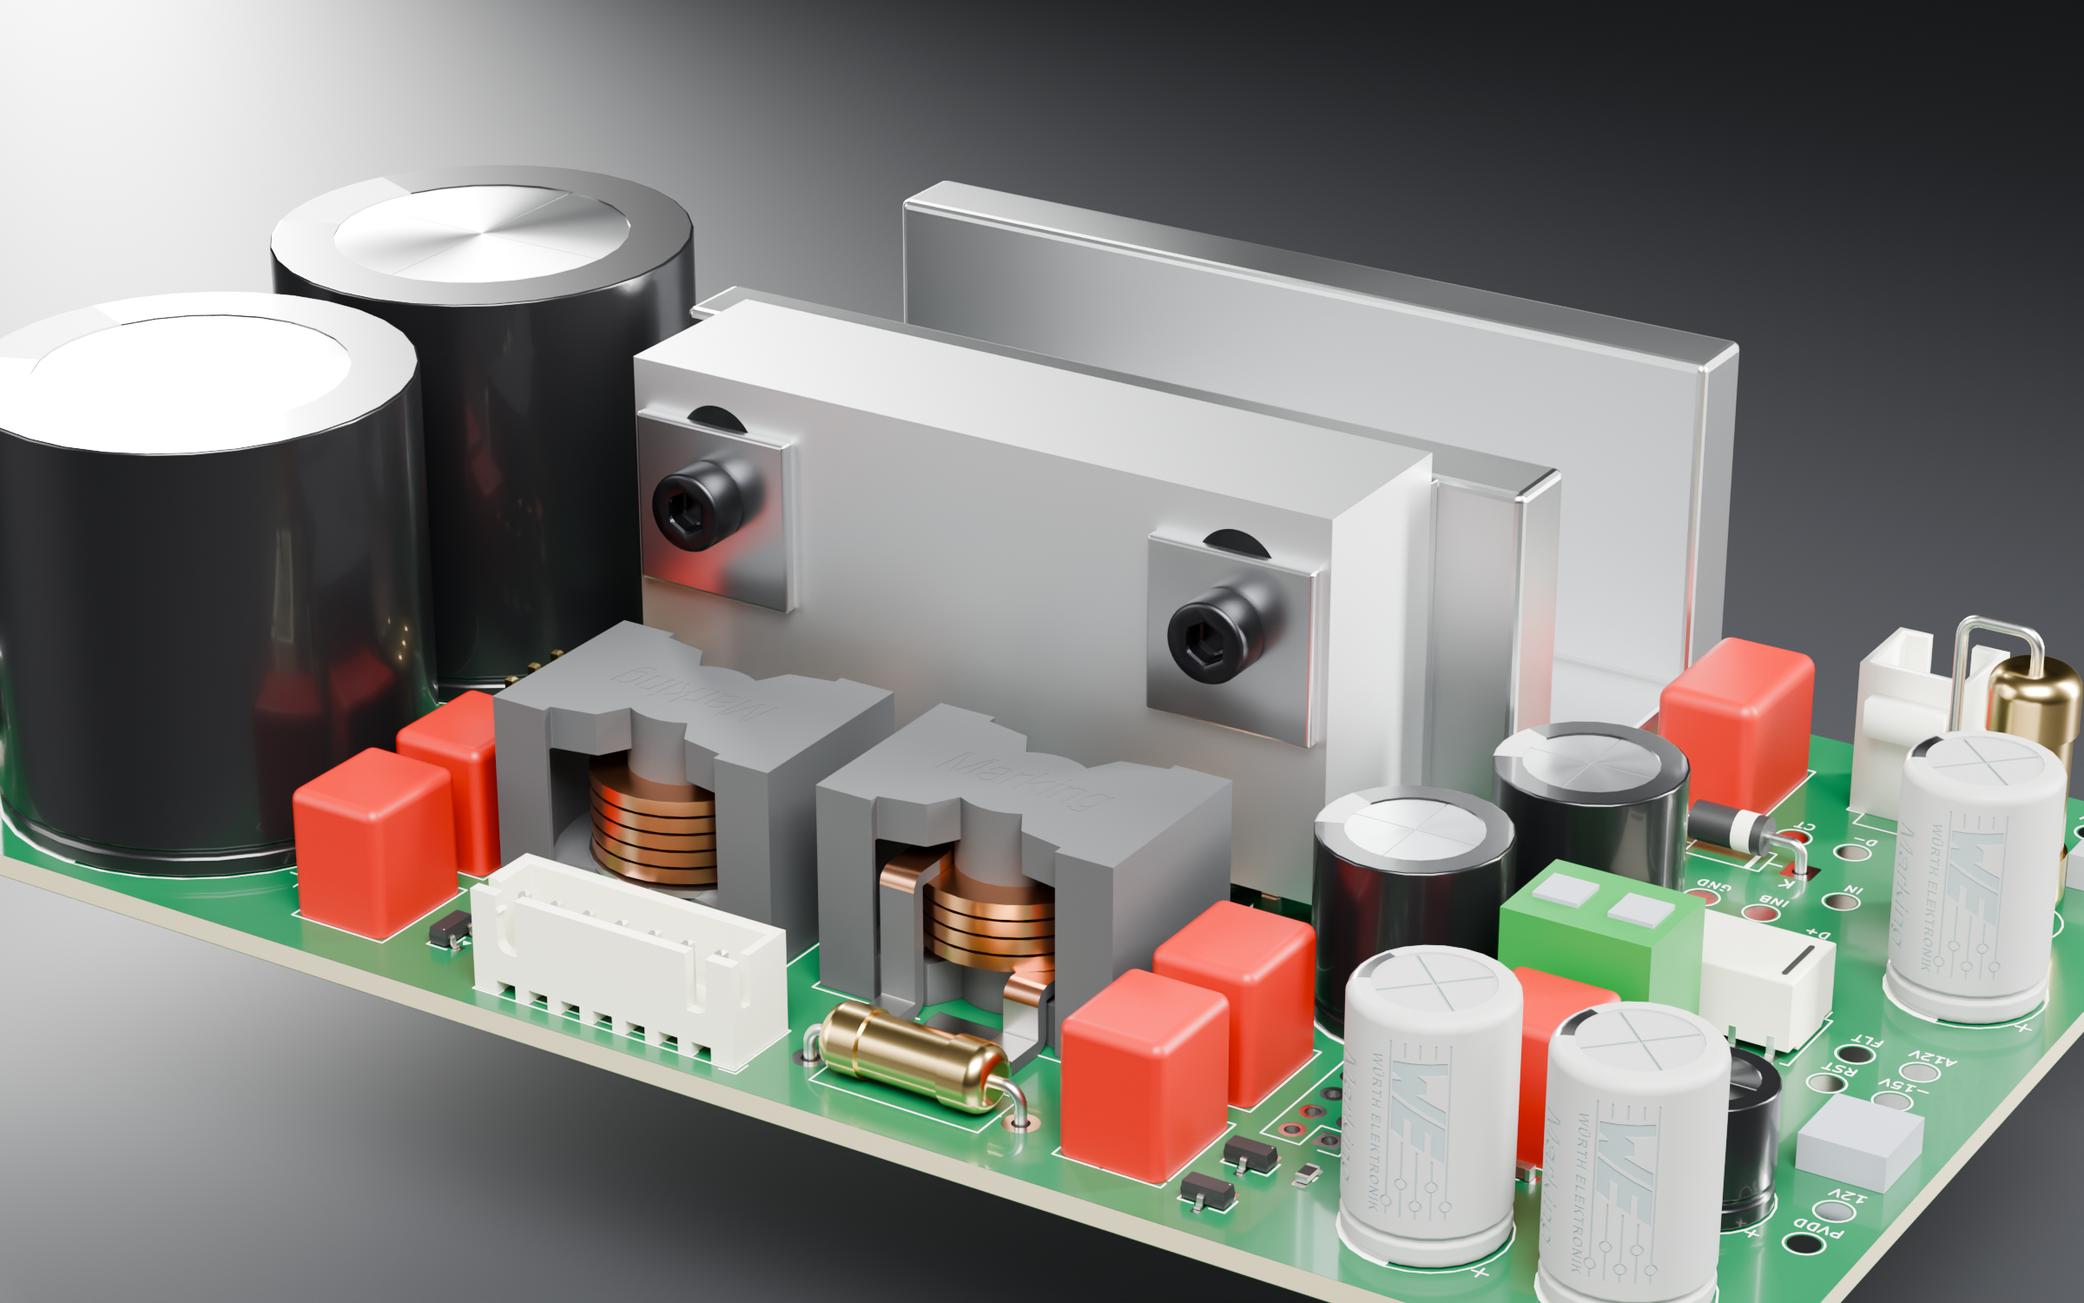
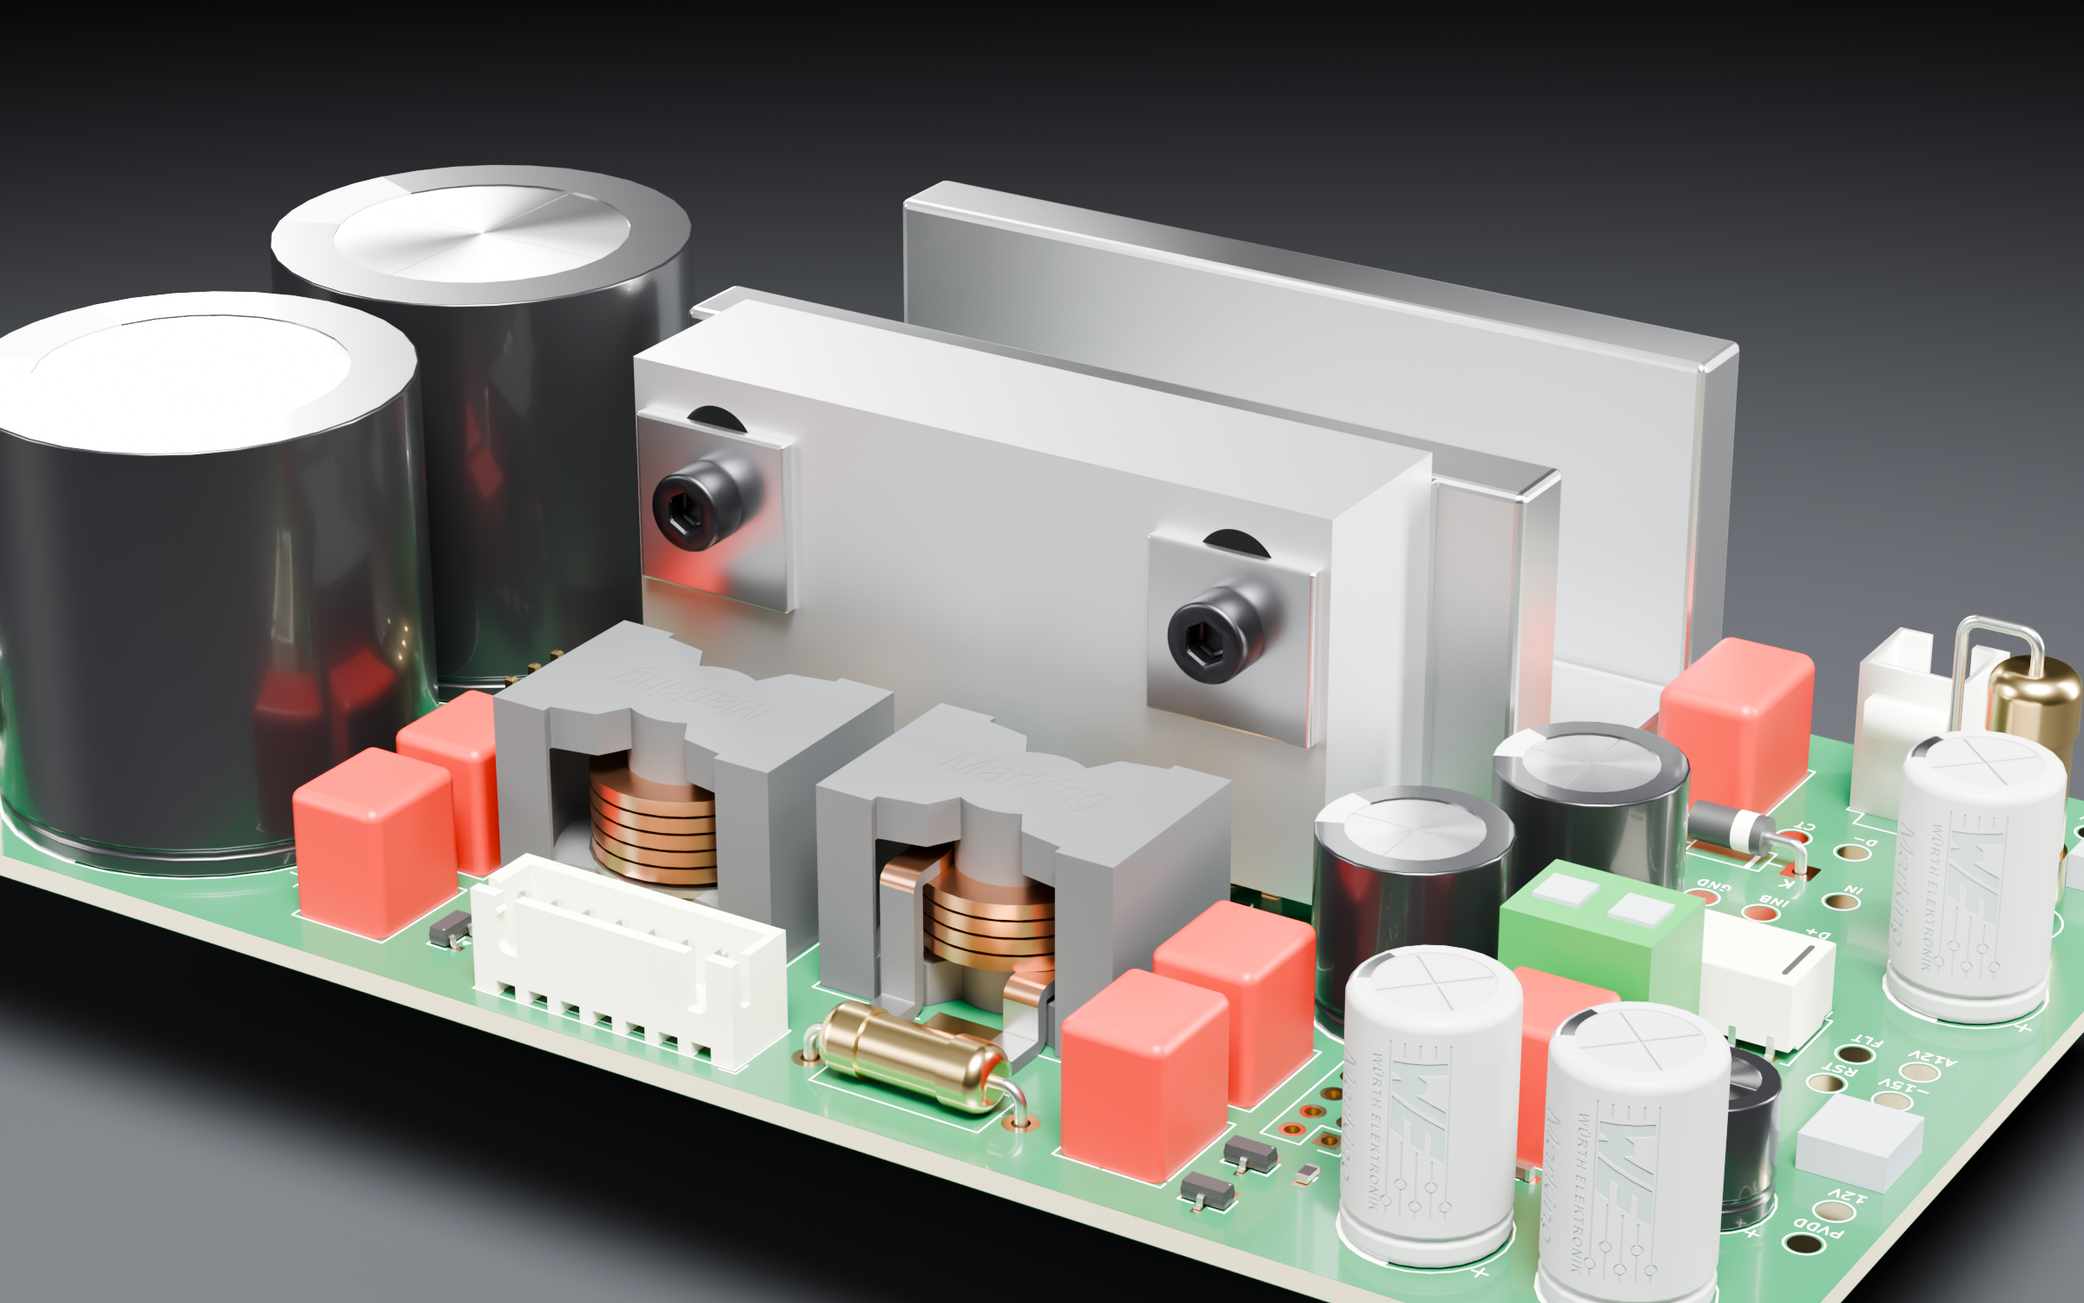
fix: resolve reorganization follow-ups
- thermal block WRL fixed at source (ccw FALSE, aluminium material); KiCad
  gallery renders the model directly; thermal-fit report regenerated
- D-039 fab spec: 4 layers 1.6 mm, ENIG, green mask
- D-040 Rev.B1 amendment (no-bench verification) approved by owner delegation
- Blender: light linking removes backdrop hotspot, ENIG pads, top-view exposure,
  PS28_STUDIO_VIEWS subset rendering
- version Headroom memory block in AGENTS.md

diff --git a/scripts/blender_pcb_studio.py b/scripts/blender_pcb_studio.py
@@ -5,7 +5,7 @@ Board/component geometry comes only from the GLB. The OEM U profile, side shim,
 load spreaders and M3 screws are added from mechanical/thermal-fit.json and the
 same nominal profile used by scripts/blender_thermal_block.py (not an owner scan).
 Materials follow datasheets where known (Nichicon UHE: white print on black sleeve).
-Set PS28_STUDIO_PREVIEW=1 for a fast low-sample check.
+Set PS28_STUDIO_PREVIEW=1 for a fast low-sample check, PS28_STUDIO_VIEWS=top,... for a subset.
 """
 import contextlib
 import hashlib
@@ -63,7 +63,7 @@ def library():
     return {
         "mask": mat("Solder mask green", (.008, .12, .045), rough=.3, coat=.55),
         "silk": mat("Silkscreen", (.93, .93, .9), rough=.7),
-        "hasl": mat("HASL tin", (.86, .86, .84), metal=1, rough=.2),
+        "enig": mat("ENIG gold", (1.0, .77, .42), metal=1, rough=.18),
         "fr4": mat("FR4 edge", (.5, .45, .28), rough=.65),
         "blasted": mat("Al 6061 bead blasted", (.83, .84, .85), metal=1, rough=.42, bump=.25),
         "extrusion": mat("Al extrusion mill finish", (.78, .79, .8), metal=1, rough=.3, aniso=.6, bump=.12),
@@ -84,7 +84,7 @@ def library():
 
 def classify(lib, obj):
     name = obj.data.name
-    for key, role in (("soldermask", "mask"), ("silkscreen", "silk"), ("_pad", "hasl"),
+    for key, role in (("soldermask", "mask"), ("silkscreen", "silk"), ("_pad", "enig"),
                       ("_PCB", "fr4"), ("thermal_block", "blasted")):
         if key in name:
             obj.data.materials.clear()
@@ -314,7 +314,7 @@ def studio(scene, k):
         p.use_smooth = True
     cyc.modifiers.clear()
     lights = [
-        ("Key softbox", (-.16, .2, .34), 1.7, (.34, .22)),
+        ("Key softbox", (-.1, .14, .36), 2.2, (.34, .22)),
         ("Fill softbox", (.3, .26, .14), .3, (.3, .3)),
         ("Rim strip left", (-.26, -.18, .1), 1.0, (.04, .4)),
         ("Rim strip right", (.28, -.22, .12), .85, (.04, .4)),
@@ -324,7 +324,8 @@ def studio(scene, k):
         data = bpy.data.lights.new(name, "AREA")
         data.shape, data.energy = "RECTANGLE", power
         data.size, data.size_y = size
-        data.spread = math.radians(75)
+        # Narrow softbox beams stop spill onto the back wall (hotspot behind the board).
+        data.spread = math.radians(38 if "softbox" in name else 75)
         obj = bpy.data.objects.new(name, data)
         scene.collection.objects.link(obj)
         obj.location = centre + Vector(off)
@@ -335,6 +336,12 @@ def studio(scene, k):
     scene.camera = cam
     cam_data.lens, cam_data.clip_start, cam_data.clip_end = 85, .005, 20
     cam_data.sensor_width = 36
+    # Rim strips only sculpt product edges; light linking keeps them off the sweep (no hotspot).
+    sweep_only = bpy.data.collections.new("Sweep excluded from rims")
+    sweep_only.objects.link(cyc)
+    sweep_only.collection_objects[0].light_linking.link_state = "EXCLUDE"
+    for name in ("Rim strip left", "Rim strip right"):
+        scene.objects[name].light_linking.receiver_collection = sweep_only
     under = scene.objects["Underside softbox"]
     return cyc, under, centre
 
@@ -369,17 +376,24 @@ def render():
         "detail": (k(90, 62, 14), (-.1, .16, .085), .72, detail, True),
         "bottom": (k(97, 60.5, 0), (.12, .22, -.3), .86, None, False),
     }
+    only = os.environ.get("PS28_STUDIO_VIEWS", "").split(",")  # e.g. "top" re-renders one view
     for name, (target, offset, margin, fit, floor) in views.items():
+        if only != [""] and name not in only:
+            continue
         cyc.hide_render, under.hide_render = not floor, floor
+        scene.view_settings.exposure = -.8 if name == "top" else 0  # key light sits right above
         frame(scene, target, offset, margin, fit)
         scene.render.filepath = str(staging / f"{name}.png")
         bpy.ops.render.render(write_still=True)
     cyc.hide_render, under.hide_render = False, True
+    scene.view_settings.exposure = 0
     frame(scene, views["isometric"][0], views["isometric"][1], views["isometric"][2])
     bpy.ops.wm.save_as_mainfile(filepath=str(OUT / "ps28-studio.blend"))
     if PREVIEW:
         return
     for name in views:
+        if only != [""] and name not in only:
+            continue
         shutil.copy2(staging / f"{name}.png", MEDIA / f"{name}.png")
     sources = [GLB, Path(__file__), ROOT / "kicad/system-candidate/system-candidate.kicad_pcb",
                ROOT / "mechanical/thermal-fit.json"]
@@ -389,7 +403,7 @@ def render():
                 "limitations": ["Board and components from the KiCad GLB (catalog/proxy models)",
                                 "OEM U profile, shim, spreaders and M3 heads are nominal geometry "
                                 "from mechanical/thermal-fit.json, not an owner scan",
-                                "Solder mask colour is the fab default (green); not a sign-off"],
+                                "Green mask and ENIG pads per D-039 fab spec; not a sign-off"],
                 "source_sha256": {str(p.relative_to(ROOT)): hashlib.sha256(p.read_bytes()).hexdigest() for p in sources},
                 "image_sha256": {f"{n}.png": hashlib.sha256((MEDIA / f"{n}.png").read_bytes()).hexdigest() for n in views}}
     (MEDIA / "manifest.json").write_text(json.dumps(manifest, indent=2) + "\n")

diff --git a/scripts/render_kicad_gallery.py b/scripts/render_kicad_gallery.py
@@ -3,10 +3,6 @@
 
 kicad-cli renders the board on a transparent background; Pillow only composites it
 on the graphite studio backdrop used by the Blender renders and encodes the GIF.
-The thermal block WRL is written with inverted face winding (renders black in
-KiCad), so rendering uses a temporary board copy whose block model adds `ccw FALSE`.
-shortcut: the source WRL keeps its hash for the thermal reports; fix the exporter
-in scripts/blender_thermal_block.py when those reports are regenerated.
 """
 
 import argparse
@@ -15,7 +11,6 @@ import json
 import re
 import shutil
 import subprocess
-import tempfile
 from pathlib import Path
 
 ROOT = Path(__file__).resolve().parents[1]
@@ -40,18 +35,6 @@ def missing_models(board):
         if not resolved or not all(Path(m).is_file() for m in resolved):
             missing.append(ref)
     return sorted(missing)
-
-
-def staged_board(tmp):
-    """Copy the board and models; fix the block winding only in the copy."""
-    shutil.copytree(BOARD.parent, tmp / "board", ignore=shutil.ignore_patterns("*-backups", "*.lck"))
-    shutil.copytree(ROOT / "kicad/models", tmp / "models")
-    wrl = tmp / "models/ps28-bodies/thermal_block.wrl"
-    wrl.write_text(wrl.read_text().replace(
-        "material Material { diffuseColor .68 .71 .74 }",
-        "material Material { diffuseColor .74 .76 .78 specularColor .45 .45 .45 shininess .3 }").replace(
-        "geometry IndexedFaceSet {", "geometry IndexedFaceSet { ccw FALSE creaseAngle .5", 1))
-    return tmp / "board" / BOARD.name
 
 
 def native(board, path, side, rotation, perspective, size, quality):
@@ -88,19 +71,17 @@ def render(frames, output):
     build = ROOT / "build/renders/native"
     build.mkdir(parents=True, exist_ok=True)
     commands = []
-    with tempfile.TemporaryDirectory(prefix="ps28-kicad-") as tmp:
-        board = staged_board(Path(tmp))
-        for name, (side, rotation, perspective) in VIEWS.items():
-            raw = build / f"{name}.png"
-            commands.append(native(board, raw, side, rotation, perspective, STILL, "high"))
-            backdrop(Image.open(raw).convert("RGBA")).save(output / f"system-{name}.png", optimize=True)
-        orbit = []
-        for i in range(frames):
-            raw = build / f"orbit-{i:02d}.png"
-            commands.append(native(board, raw, "top", f"-38,0,{i * 360 / frames:g}", True, ORBIT, "basic"))
-            orbit.append(backdrop(Image.open(raw).convert("RGBA")).quantize(colors=255))
-        orbit[0].save(output / "system-orbit.gif", save_all=True, append_images=orbit[1:],
-                      duration=180, loop=0, optimize=True)
+    for name, (side, rotation, perspective) in VIEWS.items():
+        raw = build / f"{name}.png"
+        commands.append(native(BOARD, raw, side, rotation, perspective, STILL, "high"))
+        backdrop(Image.open(raw).convert("RGBA")).save(output / f"system-{name}.png", optimize=True)
+    orbit = []
+    for i in range(frames):
+        raw = build / f"orbit-{i:02d}.png"
+        commands.append(native(BOARD, raw, "top", f"-38,0,{i * 360 / frames:g}", True, ORBIT, "basic"))
+        orbit.append(backdrop(Image.open(raw).convert("RGBA")).quantize(colors=255))
+    orbit[0].save(output / "system-orbit.gif", save_all=True, append_images=orbit[1:],
+                  duration=180, loop=0, optimize=True)
     assets = [f"system-{v}.png" for v in VIEWS] + ["system-orbit.gif"]
     manifest = {
         "renderer": subprocess.check_output(["kicad-cli", "--version"], text=True).strip(),

diff --git a/scripts/blender_thermal_block.py b/scripts/blender_thermal_block.py
@@ -98,8 +98,9 @@ assert all(abs(z-(b['z'][0]+C['clamp_tap_depth_mm']))<.001 for z in mesh_check['
 (OUT/'mesh-check.json').write_text(json.dumps(mesh_check,indent=2)+'\n')
 model=ROOT/'kicad/models/ps28-bodies/thermal_block.wrl';model.parent.mkdir(parents=True,exist_ok=True)
 model.write_text('#VRML V2.0 utf8\n# ENGINEERING STUDY - NOT FOR MANUFACTURING\n'
-                 'Shape { appearance Appearance { material Material { diffuseColor .68 .71 .74 } } '
-                 f'geometry IndexedFaceSet {{ coord Coordinate {{ point [ {vertices} ] }} coordIndex [ {faces} ] }} }}\n')
+                 'Shape { appearance Appearance { material Material { diffuseColor .74 .76 .78 specularColor .45 .45 .45 shininess .3 } } '
+                 # Exported triangles wind clockwise seen from outside; ccw FALSE keeps KiCad normals outward.
+                 f'geometry IndexedFaceSet {{ ccw FALSE creaseAngle .5 coord Coordinate {{ point [ {vertices} ] }} coordIndex [ {faces} ] }} }}\n')
 block['status']='NOT RELEASED; calibrate stops/TIM on actual assembly'
 block['side_hole_height_mm']=s['z_mm']
 

diff --git a/tests/unit/test_render_gallery.py b/tests/unit/test_render_gallery.py
@@ -31,15 +31,9 @@ class RenderGalleryTests(unittest.TestCase):
         missing = gallery.missing_models(gallery.BOARD)
         self.assertEqual(missing, ["H6", "J6"] + sorted(f"TP{n}" for n in [102, 103, *range(110, 131)]))
 
-    def test_staged_block_model_fixes_winding_without_touching_source(self):
-        import tempfile
-        source = ROOT / "kicad/models/ps28-bodies/thermal_block.wrl"
-        before = source.read_bytes()
-        with tempfile.TemporaryDirectory() as tmp:
-            board = gallery.staged_board(Path(tmp))
-            self.assertTrue(board.exists())
-            self.assertIn("ccw FALSE", (Path(tmp) / "models/ps28-bodies/thermal_block.wrl").read_text())
-        self.assertEqual(source.read_bytes(), before)
+    def test_block_model_faces_outward_in_kicad(self):
+        text = (ROOT / "kicad/models/ps28-bodies/thermal_block.wrl").read_text()
+        self.assertIn("ccw FALSE", text)
 
 
 if __name__ == "__main__":

diff --git a/docs/decisions.md b/docs/decisions.md
@@ -349,3 +349,14 @@ Usar D-NNN: problema, opções, fonte, consequência, responsável, status/data 
   `vmid-protected`), geradores, estudos superados e `docs/archive/` removidos; continuam
   no histórico Git. A candidata `kicad/system-candidate/` não depende deles (bibliotecas
   locais e `kicad/models/`). Decisões acima que citam essas pastas descrevem a origem.
+- D-039 — **Especificação de fabricação: 4 camadas 1,6 mm, ENIG, máscara verde.**
+  2026-10-17, decisão delegada pelo proprietário ("decida tudo por conta própria").
+  ENIG pela planicidade no TPA3255DDV (passo 0,635 mm) e nos pads de potência; HASL
+  sem chumbo deixa relevo irregular. Máscara verde: a placa fica dentro do gabinete,
+  verde dá melhor contraste para inspeção e retrabalho de uma unidade única, é o
+  padrão de AOI/prazo da JLCPCB. Como confirmar: cotação FAB-001 com esses parâmetros.
+- D-040 — **Emenda Rev.B1 dos requisitos aprovada por delegação.** 2026-10-17. A
+  verificação sem bancada (D-037) substitui a medida de Xlin por limiter/subsônico
+  OEM e ≤100 W médios e troca ensaios por análise. O proprietário delegou a decisão
+  ("Resolva todas essas pendências, decida tudo por conta própria pelo melhor
+  resultado do projeto"); registrado em `docs/sys002-baseline.md`. G4 continua humano.

diff --git a/AGENTS.md b/AGENTS.md
@@ -101,3 +101,18 @@ em docs/requirements.md, aprovados pelo proprietário antes de energizar.
 Fonte em skills/<nome>/SKILL.md; .claude/skills e .agents/skills são links para ela.
 Leia skills/README.md para catálogo e testes de comportamento. Skills não dão autoridade
 de sign-off nem comprovam competência profissional; avaliações iniciais são pendentes.
+
+
+<!-- headroom:memory-instructions -->
+## Memory
+
+Use the `headroom_memory` MCP server for persistent cross-session knowledge.
+
+**Before** answering questions about prior decisions, conventions, project context,
+architecture, user preferences, org info, codenames, debugging history, or anything
+from past sessions — call `memory_search` first.
+
+**After** making durable decisions, discovering conventions, or learning important
+facts — call `memory_save` to persist them for future sessions.
+
+Memory is your first source of truth for anything not visible in the current conversation.

diff --git a/docs/sys002-baseline.md b/docs/sys002-baseline.md
@@ -29,3 +29,11 @@ Commit da baseline aprovada: [`6cf2260da231`](https://github.com/bernardopg/ps28
 Regra aplicável: SYS-002 exige “Baseline e G0 aprovados pelo proprietário”; docs/safety.md
 exige “IA recomenda, humano aprova”. O aceite explícito foi recebido; ensaios físicos e demais gates permanecem
 independentes.
+
+## Emenda Rev.B1 — 2026-10-17 (D-037/D-040)
+
+Verificação por análise, simulação e CAD em vez de bancada; excursão limitada pelo
+limiter/subsônico OEM e ≤100 W médios, sem medida de Xlin. Aprovada por delegação
+explícita do proprietário: “Resolva todas essas pendências, decida tudo por conta
+própria pelo melhor resultado do projeto”. Limites elétricos da Rev.B mantidos.
+G4 (energização) continua exigindo o "ok" do proprietário no momento da instalação.

diff --git a/CHANGELOG.md b/CHANGELOG.md
@@ -4,6 +4,15 @@ Mudanças de infraestrutura/documentação separadas da revisão física Rev. A.
 
 ## [Unreleased]
 
+### Pendências da reorganização — 2026-10-17
+
+- WRL do bloco térmico corrigido na origem (`ccw FALSE`, alumínio); galeria KiCad
+  usa o modelo direto, relatório térmico regenerado.
+- D-039: especificação de fabricação 4 camadas 1,6 mm, ENIG, máscara verde.
+- D-040: emenda Rev.B1 (verificação sem bancada) aprovada por delegação do proprietário.
+- Render Blender sem ponto claro no fundo (light linking nas rims), pads ENIG.
+- Bloco de memória Headroom do AGENTS.md versionado.
+
 ### Reorganização, plano sem bancada e renders — 2026-10-17
 
 - D-037: requisitos verificados por análise/simulação/CAD; único passo físico antes

diff --git a/docs/manufacturing.md b/docs/manufacturing.md
@@ -1,5 +1,15 @@
 # Fabricação e release — bloqueados até G3
 
+## Especificação da placa (D-039)
+
+| Parâmetro | Valor |
+|---|---|
+| Camadas / espessura | 4 / 1,6 mm (stackup padrão JLCPCB JLC04161H-7628) |
+| Cobre externo / interno | 1 oz (35 µm) / 0,5 oz; confirmar contra correntes em PCB-002 |
+| Acabamento | ENIG (planicidade para o HTSSOP-44 0,635 mm e pads largos) |
+| Máscara / serigrafia | verde / branca |
+| Montagem | SMD pela JLCPCB; THT grandes (C301/C302, D301/D302, conectores) à mão |
+
 Comparar JLCPCB/PCBWay com a mesma stackup, cobre, quantidade e montagem.
 Preço/cupom antigo não é orçamento. No TPA3255DDV, PowerPAD é SUPERIOR:
 reflow dos 44 leads, dissipador aterrado e interface mecânica/térmica correta,

diff --git a/docs/images/pcb-studio/README.md b/docs/images/pcb-studio/README.md
@@ -15,7 +15,7 @@ nominais de [thermal-fit.json](../../../mechanical/thermal-fit.json).
 
 Materiais conforme a peça real: bloco em alumínio 6061 jateado, perfil em
 alumínio extrudado, capacitores com capa preta (Nichicon UHE: "white letter on
-black sleeve"), terminais estanhados HASL, máscara verde padrão da fábrica.
+black sleeve"), pads em ENIG e máscara verde, conforme a especificação de fabricação (D-039).
 Terminais THT cortados 2 mm abaixo da placa, como após a montagem.
 
 Não é foto nem comprovação de fit físico; [manifesto](manifest.json).

diff --git a/docs/images/kicad-3d/README.md b/docs/images/kicad-3d/README.md
@@ -14,6 +14,6 @@ Para a apresentação de produto, ver os [renders Blender](../pcb-studio/README.
 
 Modelos de catálogo KiCad (cores genéricas). Sem modelo 3D: test pads, J6 e H6
 (o bloco térmico usa o modelo de H5); lista no [manifesto](manifest.json).
-O WRL do bloco tem faces invertidas; o render usa cópia corrigida (ver script).
+
 
 Regenerar: `make render-3d`.

diff --git a/docs/requirements.md b/docs/requirements.md
@@ -1,4 +1,4 @@
-# Requisitos Rev. B — SYS-002
+# Requisitos Rev. B1 — SYS-002
 
 Baseline de engenharia de 2026-10-17. Os limites abaixo são requisitos de aceitação,
 não resultados medidos nem autorização de energização. Aprovação humana G0 em
